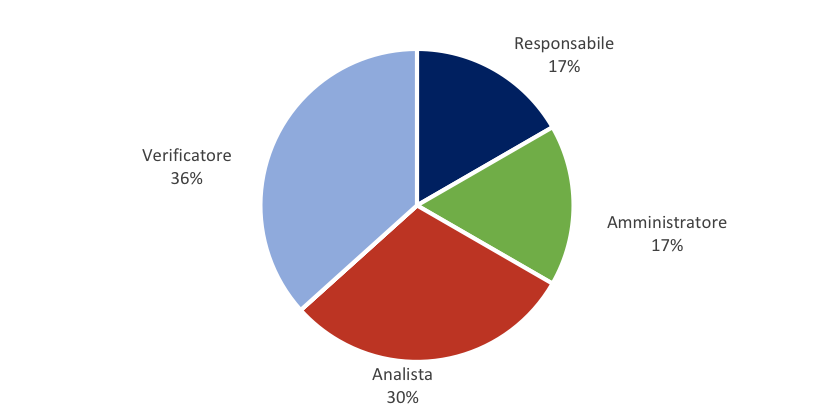
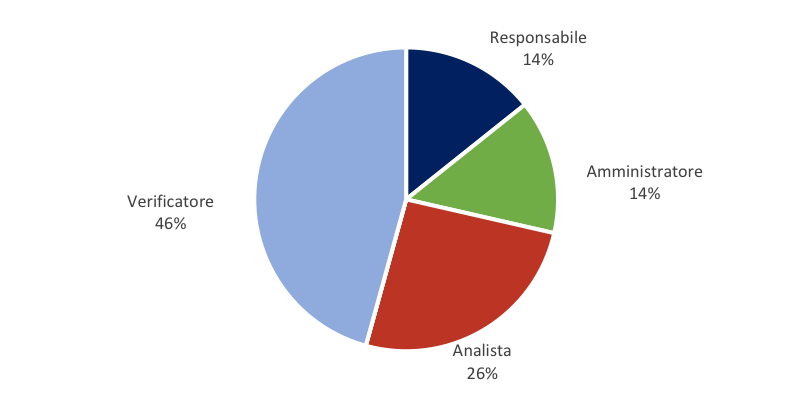
sistemazione grafico percentuali

diff --git a/Esterni/PianoDiProgetto/sezioni/prospetto_economico.tex b/Esterni/PianoDiProgetto/sezioni/prospetto_economico.tex
@@ -150,7 +150,7 @@ Le spese per questa attività non sono a carico del committente.
 	\end{center}
 \end{table}
 
-La raffigurazione grafica del peso di ogni ruolo sul costo totale è così rappresentata: (DA SISTEMARE LE PERCENTUALI)
+La raffigurazione grafica del peso di ogni ruolo sul costo totale è così rappresentata: 
 \begin{figure}[!ht]
 	\begin{center}
 		\includegraphics{images/grafoProspettoEconomicoDett.png}
@@ -370,7 +370,7 @@ Il totale del prospetto orario rendicontato è illustrato nella seguente tabella
 			\hline
 			& \textcolor{white}{Nome} & \textcolor{white}{Re} & \textcolor{white}{Am} & \textcolor{white}{An} & \textcolor{white}{Pt} &\textcolor{white}{Pr} & \textcolor{white}{Ve} & \textcolor{white}{Totale} \\
 			\hline
-			&Mirko Franco & - & - & 14 & 26& 28 & 33 & 101  \\
+			&Mirko Franco & - & 5 & 14 & 26& 28 & 33 & 101  \\
 			&Bianca Ciuche & -& 6& 6 & 38 & 22& 29 &101 \\
 			&Stefano Zanatta & 5 & 8& 4 & 37 & 25 & 22 & 101 \\
 			&Andrea Deidda &  6& - & 7 &35 & 26 & 27 & 101\\
@@ -378,7 +378,7 @@ Il totale del prospetto orario rendicontato è illustrato nella seguente tabella
 			&Matteo Depascale & 6& 6& - & 34& 25& 30& 101\\
 			&Gian Marco Bratzu & 7& 4 & - & 42 & 35 & 13 &101 \\
 			\hline
-			&\textbf{Ore totali ruolo} & 32& 38 & 31 & 244 & 184 & 178 & 707 \\
+			&\textbf{Ore totali ruolo} & 32& 43 & 31 & 244 & 184 & 178 & 707 \\
 		\end{tabular}
 		\caption{Prospetto orario totale delle ore rendicontate}
 	\end{center}
@@ -405,7 +405,7 @@ La seguente tabella mostra il totale del prospetto economico rendicontato che  i
 			&\textcolor{white}{Ruolo}&	\textcolor{white}{Ore} &\textcolor{white}{Costo(\euro)} \\
 			\hline
 			&Responsabile           &32&960\\
-			&Amministratore        & 38& 760 \\
+			&Amministratore        & 43& 860 \\
 			&Analista                   & 31& 775\\
 			&Progettista              &  244& 5.368\\
 			&Programmatore       & 184& 2.760 \\
